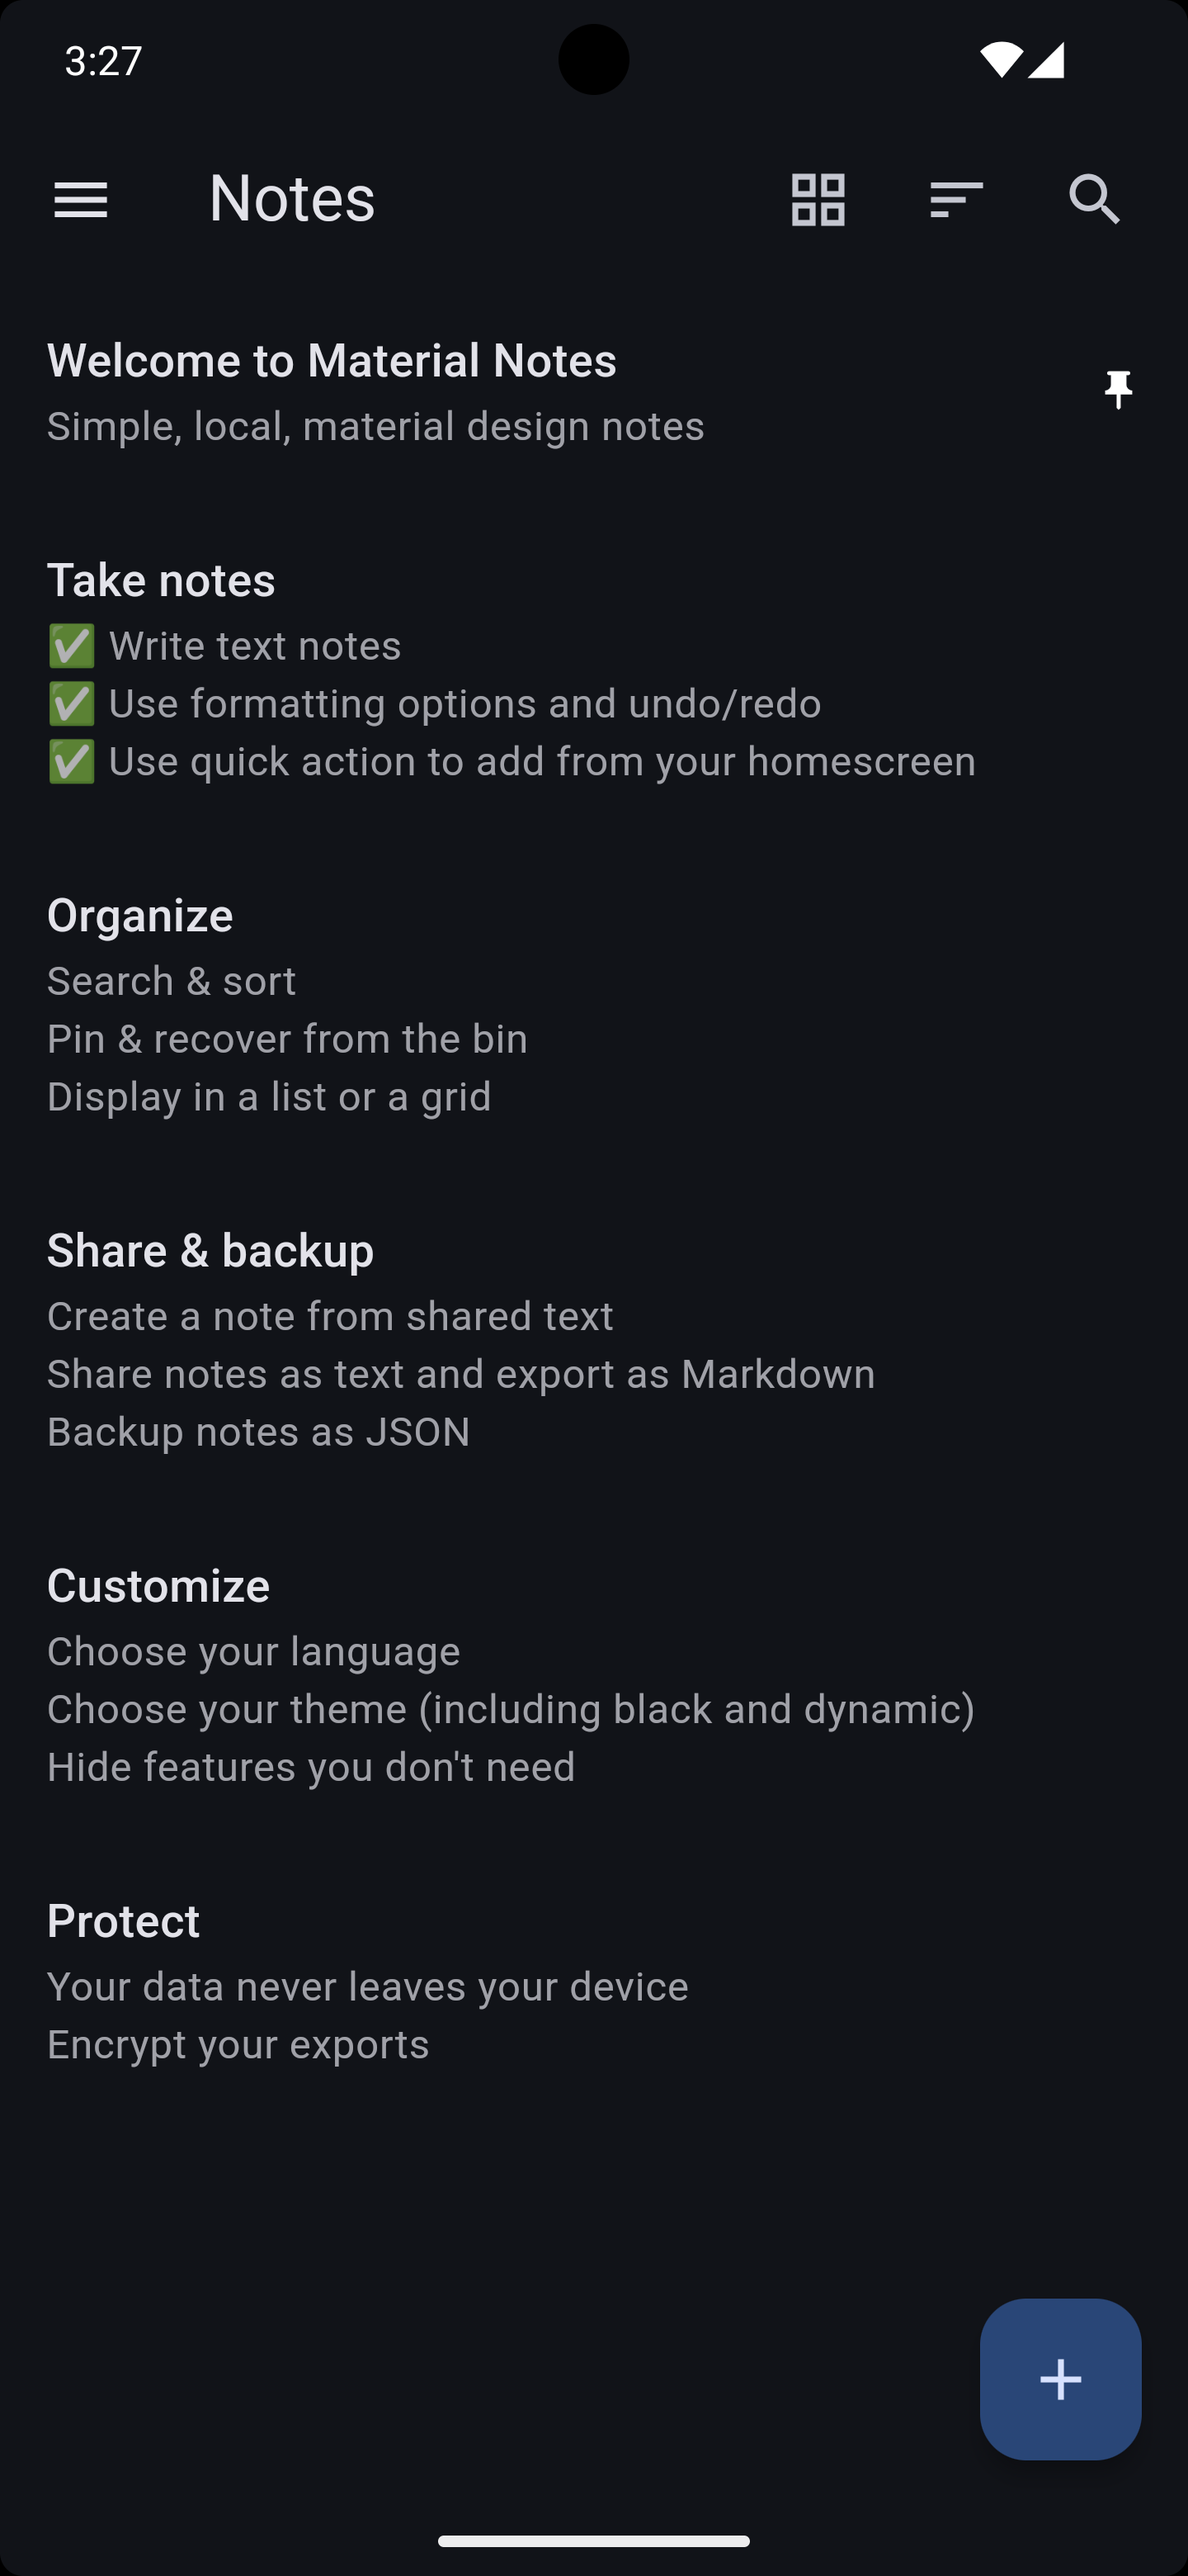
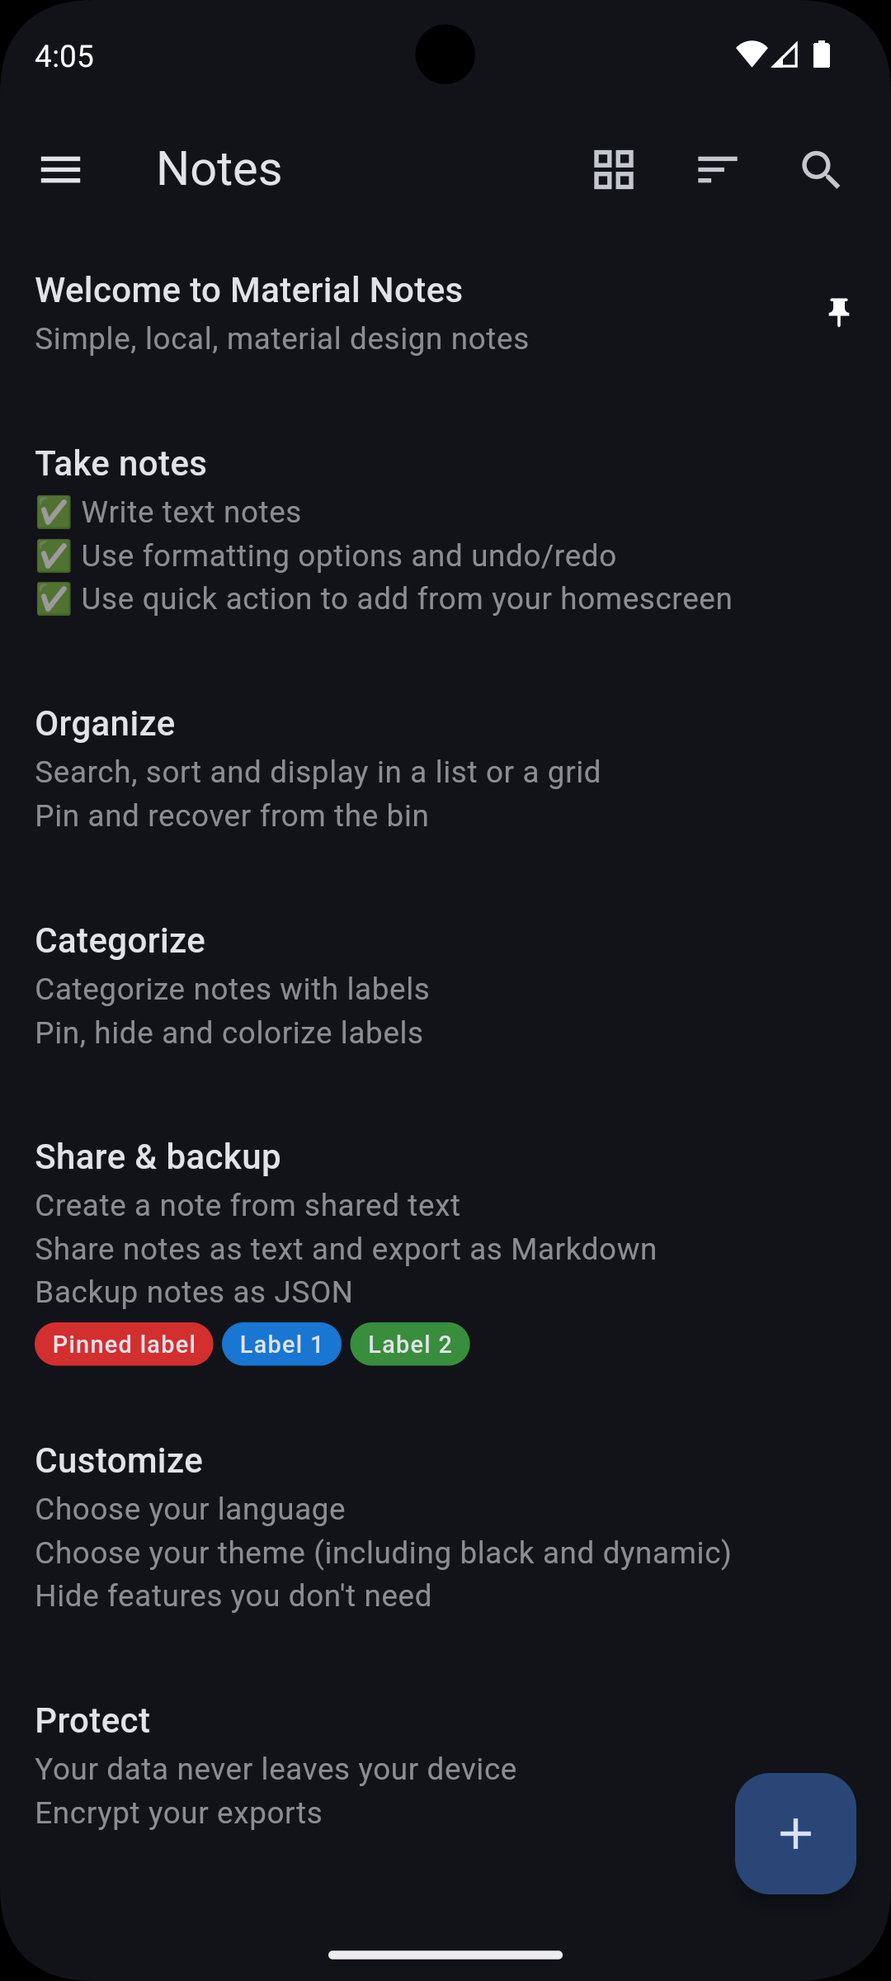
[prepare] chore: update screenshots

diff --git a/lib/services/labels/labels_service.dart b/lib/services/labels/labels_service.dart
@@ -1,4 +1,6 @@
 import 'package:isar/isar.dart';
+import 'package:localmaterialnotes/common/constants/environment.dart';
+import 'package:localmaterialnotes/common/constants/labels.dart';
 import 'package:localmaterialnotes/models/label/label.dart';
 import 'package:localmaterialnotes/pages/labels/enums/labels_filter.dart';
 import 'package:localmaterialnotes/services/database_service.dart';
@@ -18,6 +20,23 @@ class LabelsService {
 
   final _database = DatabaseService().database;
   final _labels = DatabaseService().database.labels;
+
+  /// Ensures the labels service is initialized.
+  Future<void> ensureInitialized() async {
+    // If the app runs with the 'INTEGRATION_TEST' environment parameter,
+    // clear all the labels and add the labels for the integration tests
+    if (Environment.integrationTest) {
+      await clear();
+      await putAll(integrationTestLabels);
+    }
+
+    // If the app runs with the 'SCREENSHOTS' environment parameter,
+    // clear all the labels and add the labels for the screenshots
+    else if (Environment.screenshots) {
+      await clear();
+      await putAll(screenshotLabels);
+    }
+  }
 
   /// Returns all the labels.
   Future<List<Label>> getAll() async {

diff --git a/integration_test/utils.dart b/integration_test/utils.dart
@@ -7,6 +7,7 @@ import 'package:localmaterialnotes/common/preferences/preferences_utils.dart';
 import 'package:localmaterialnotes/routing/routes/bin/bin_route.dart';
 import 'package:localmaterialnotes/routing/routes/settings/settings_route.dart';
 import 'package:localmaterialnotes/routing/routes/shell/shell_route.dart';
+import 'package:localmaterialnotes/services/labels/labels_service.dart';
 import 'package:localmaterialnotes/services/notes/notes_service.dart';
 import 'package:localmaterialnotes/utils/auto_export_utils.dart';
 import 'package:localmaterialnotes/utils/flag_secure_utils.dart';
@@ -26,6 +27,7 @@ Future<Widget> get app async {
 
   // Initialize the services
   await NotesService().ensureInitialized();
+  await LabelsService().ensureInitialized();
 
   // No need to await this, it can be performed in the background
   AutoExportUtils().ensureInitialized();

diff --git a/lib/services/notes/notes_service.dart b/lib/services/notes/notes_service.dart
@@ -1,6 +1,7 @@
 import 'package:is_first_run/is_first_run.dart';
 import 'package:isar/isar.dart';
 import 'package:localmaterialnotes/common/constants/environment.dart';
+import 'package:localmaterialnotes/common/constants/labels.dart';
 import 'package:localmaterialnotes/common/constants/notes.dart';
 import 'package:localmaterialnotes/models/label/label.dart';
 import 'package:localmaterialnotes/models/note/note.dart';
@@ -36,6 +37,7 @@ class NotesService {
     else if (Environment.screenshots) {
       await clear();
       await putAll(screenshotNotes);
+      await putLabels(screenshotNotes[4], screenshotLabels);
     }
 
     // If the app runs for the first time ever, add the welcome note

diff --git a/lib/common/constants/notes.dart b/lib/common/constants/notes.dart
@@ -62,7 +62,15 @@ final screenshotNotes = [
     createdTime: DateTime(2000, 01, 01, 11, 50),
     editedTime: DateTime(2000, 01, 01, 11, 50),
     title: "Organize",
-    content: '[{"insert":"Search & sort\\nPin & recover from the bin\\nDisplay in a list or a grid\\n"}]',
+    content: '[{"insert":"Search, sort and display in a list or a grid\\nPin and recover from the bin\\n"}]',
+  ),
+  Note(
+    deleted: false,
+    pinned: false,
+    createdTime: DateTime(2000, 01, 01, 11, 50),
+    editedTime: DateTime(2000, 01, 01, 11, 50),
+    title: "Categorize",
+    content: '[{"insert":"Categorize notes with labels\\nPin, hide and colorize labels\\n"}]',
   ),
   Note(
     deleted: false,

diff --git a/lib/services/database_service.dart b/lib/services/database_service.dart
@@ -1,6 +1,7 @@
 import 'package:isar/isar.dart';
 import 'package:localmaterialnotes/models/label/label.dart';
 import 'package:localmaterialnotes/models/note/note.dart';
+import 'package:localmaterialnotes/services/labels/labels_service.dart';
 import 'package:localmaterialnotes/services/notes/notes_service.dart';
 import 'package:path_provider/path_provider.dart';
 
@@ -30,6 +31,7 @@ class DatabaseService {
     );
 
     // Initialize the models services
+    await LabelsService().ensureInitialized();
     await NotesService().ensureInitialized();
   }
 }

diff --git a/lib/common/constants/labels.dart b/lib/common/constants/labels.dart
@@ -1,0 +1,12 @@
+import 'package:flutter/material.dart';
+import 'package:localmaterialnotes/models/label/label.dart';
+
+/// Labels used when running integration tests.
+final integrationTestLabels = <Label>[];
+
+/// Labels used when taking screenshots of the application for the stores.
+final screenshotLabels = [
+  Label(name: 'Pinned label', colorHex: Colors.red.shade700.value)..pinned = true,
+  Label(name: 'Label 1', colorHex: Colors.blue.shade700.value),
+  Label(name: 'Label 2', colorHex: Colors.green.shade700.value),
+];
